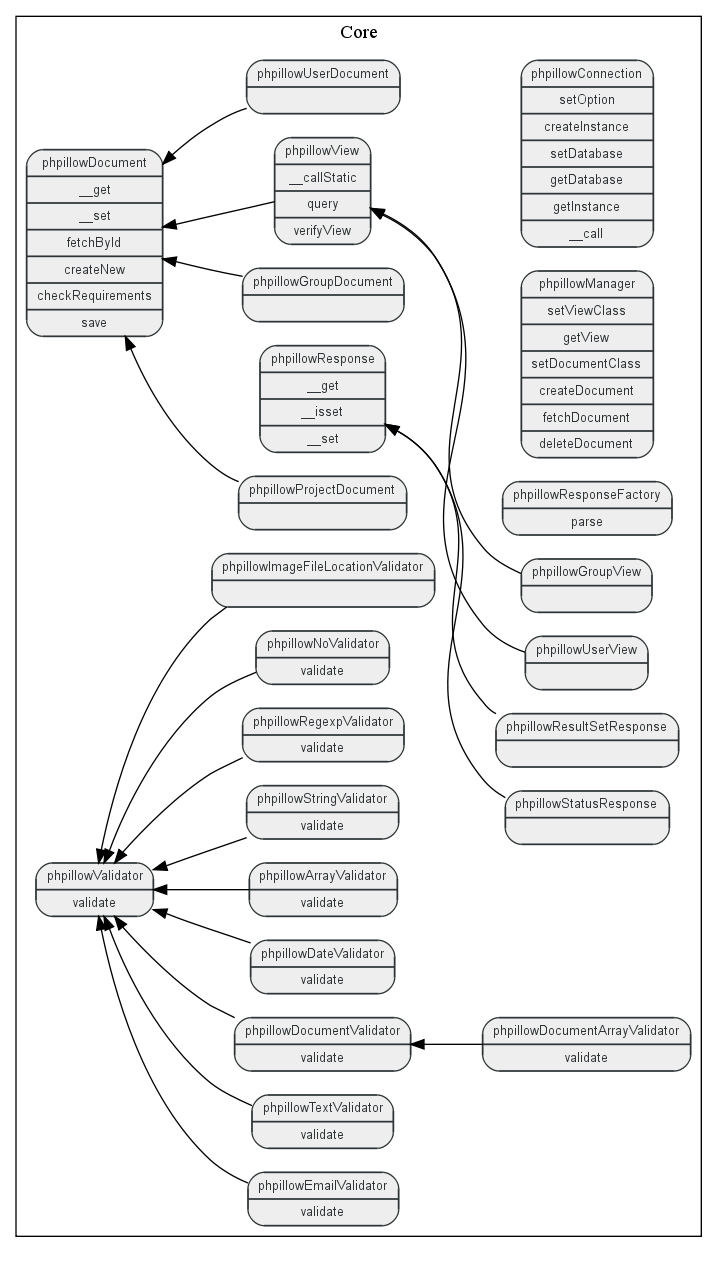
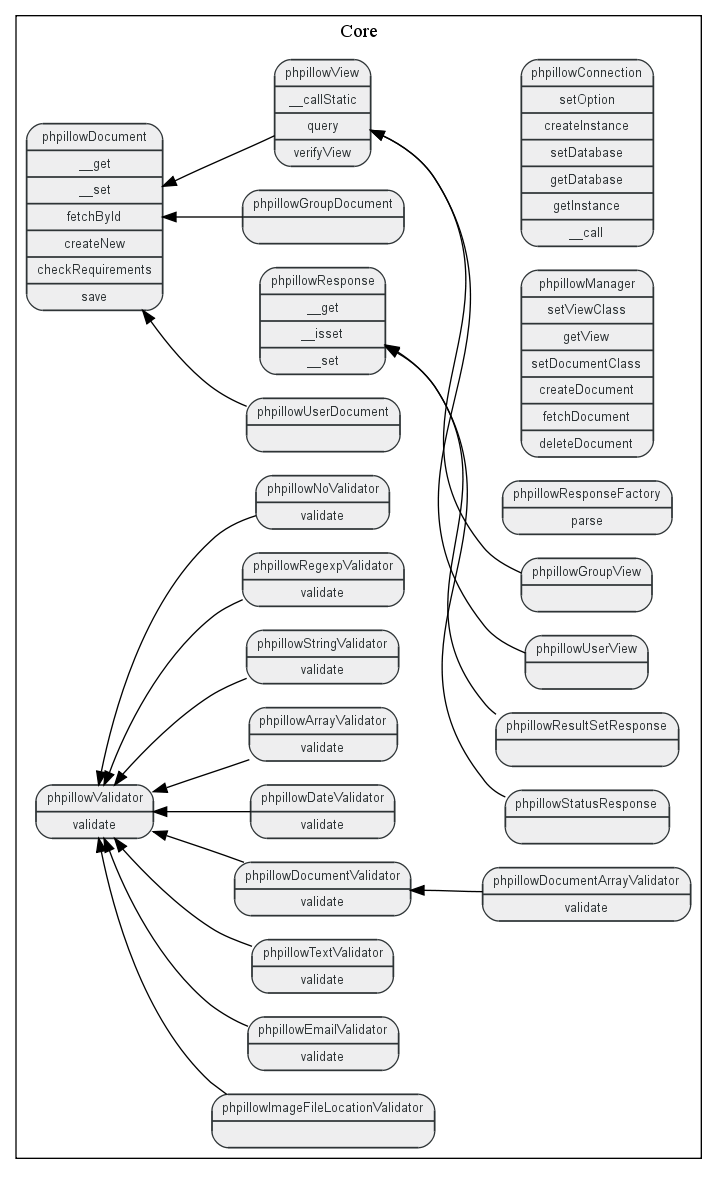
# Fixed speed test

diff --git a/src/classes/autoload.php b/src/classes/autoload.php
@@ -32,7 +32,6 @@ return array(
     'phpillowConnection'                     => 'classes/connection.php',
     'phpillowDocument'                       => 'classes/document.php',
     'phpillowGroupDocument'                  => 'classes/document/group.php',
-    'phpillowProjectDocument'                => 'classes/document/project.php',
     'phpillowUserDocument'                   => 'classes/document/user.php',
     'phpillowException'                      => 'classes/exception.php',
     'phpillowRuntimeException'               => 'classes/exception.php',

diff --git a/docs/speed_test.php b/docs/speed_test.php
@@ -1,7 +1,16 @@
 <?php
 
-require_once __DIR__ . '/../../src/environment.php';
+// Include all required classes
+$autoload = require ( $base = __DIR__ . '/../src/' ) . 'classes/autoload.php';
+foreach ( $autoload as $file )
+{
+    require_once $base . $file;
+}
 
+// Initialize document manager
+phpillowManager::setDocumentClass( 'user', 'phpillowUserDocument' );
+
+// Configure parameters for speed testing
 $puts = 1000;
 $gets = 5000;
 $views = 2000;
